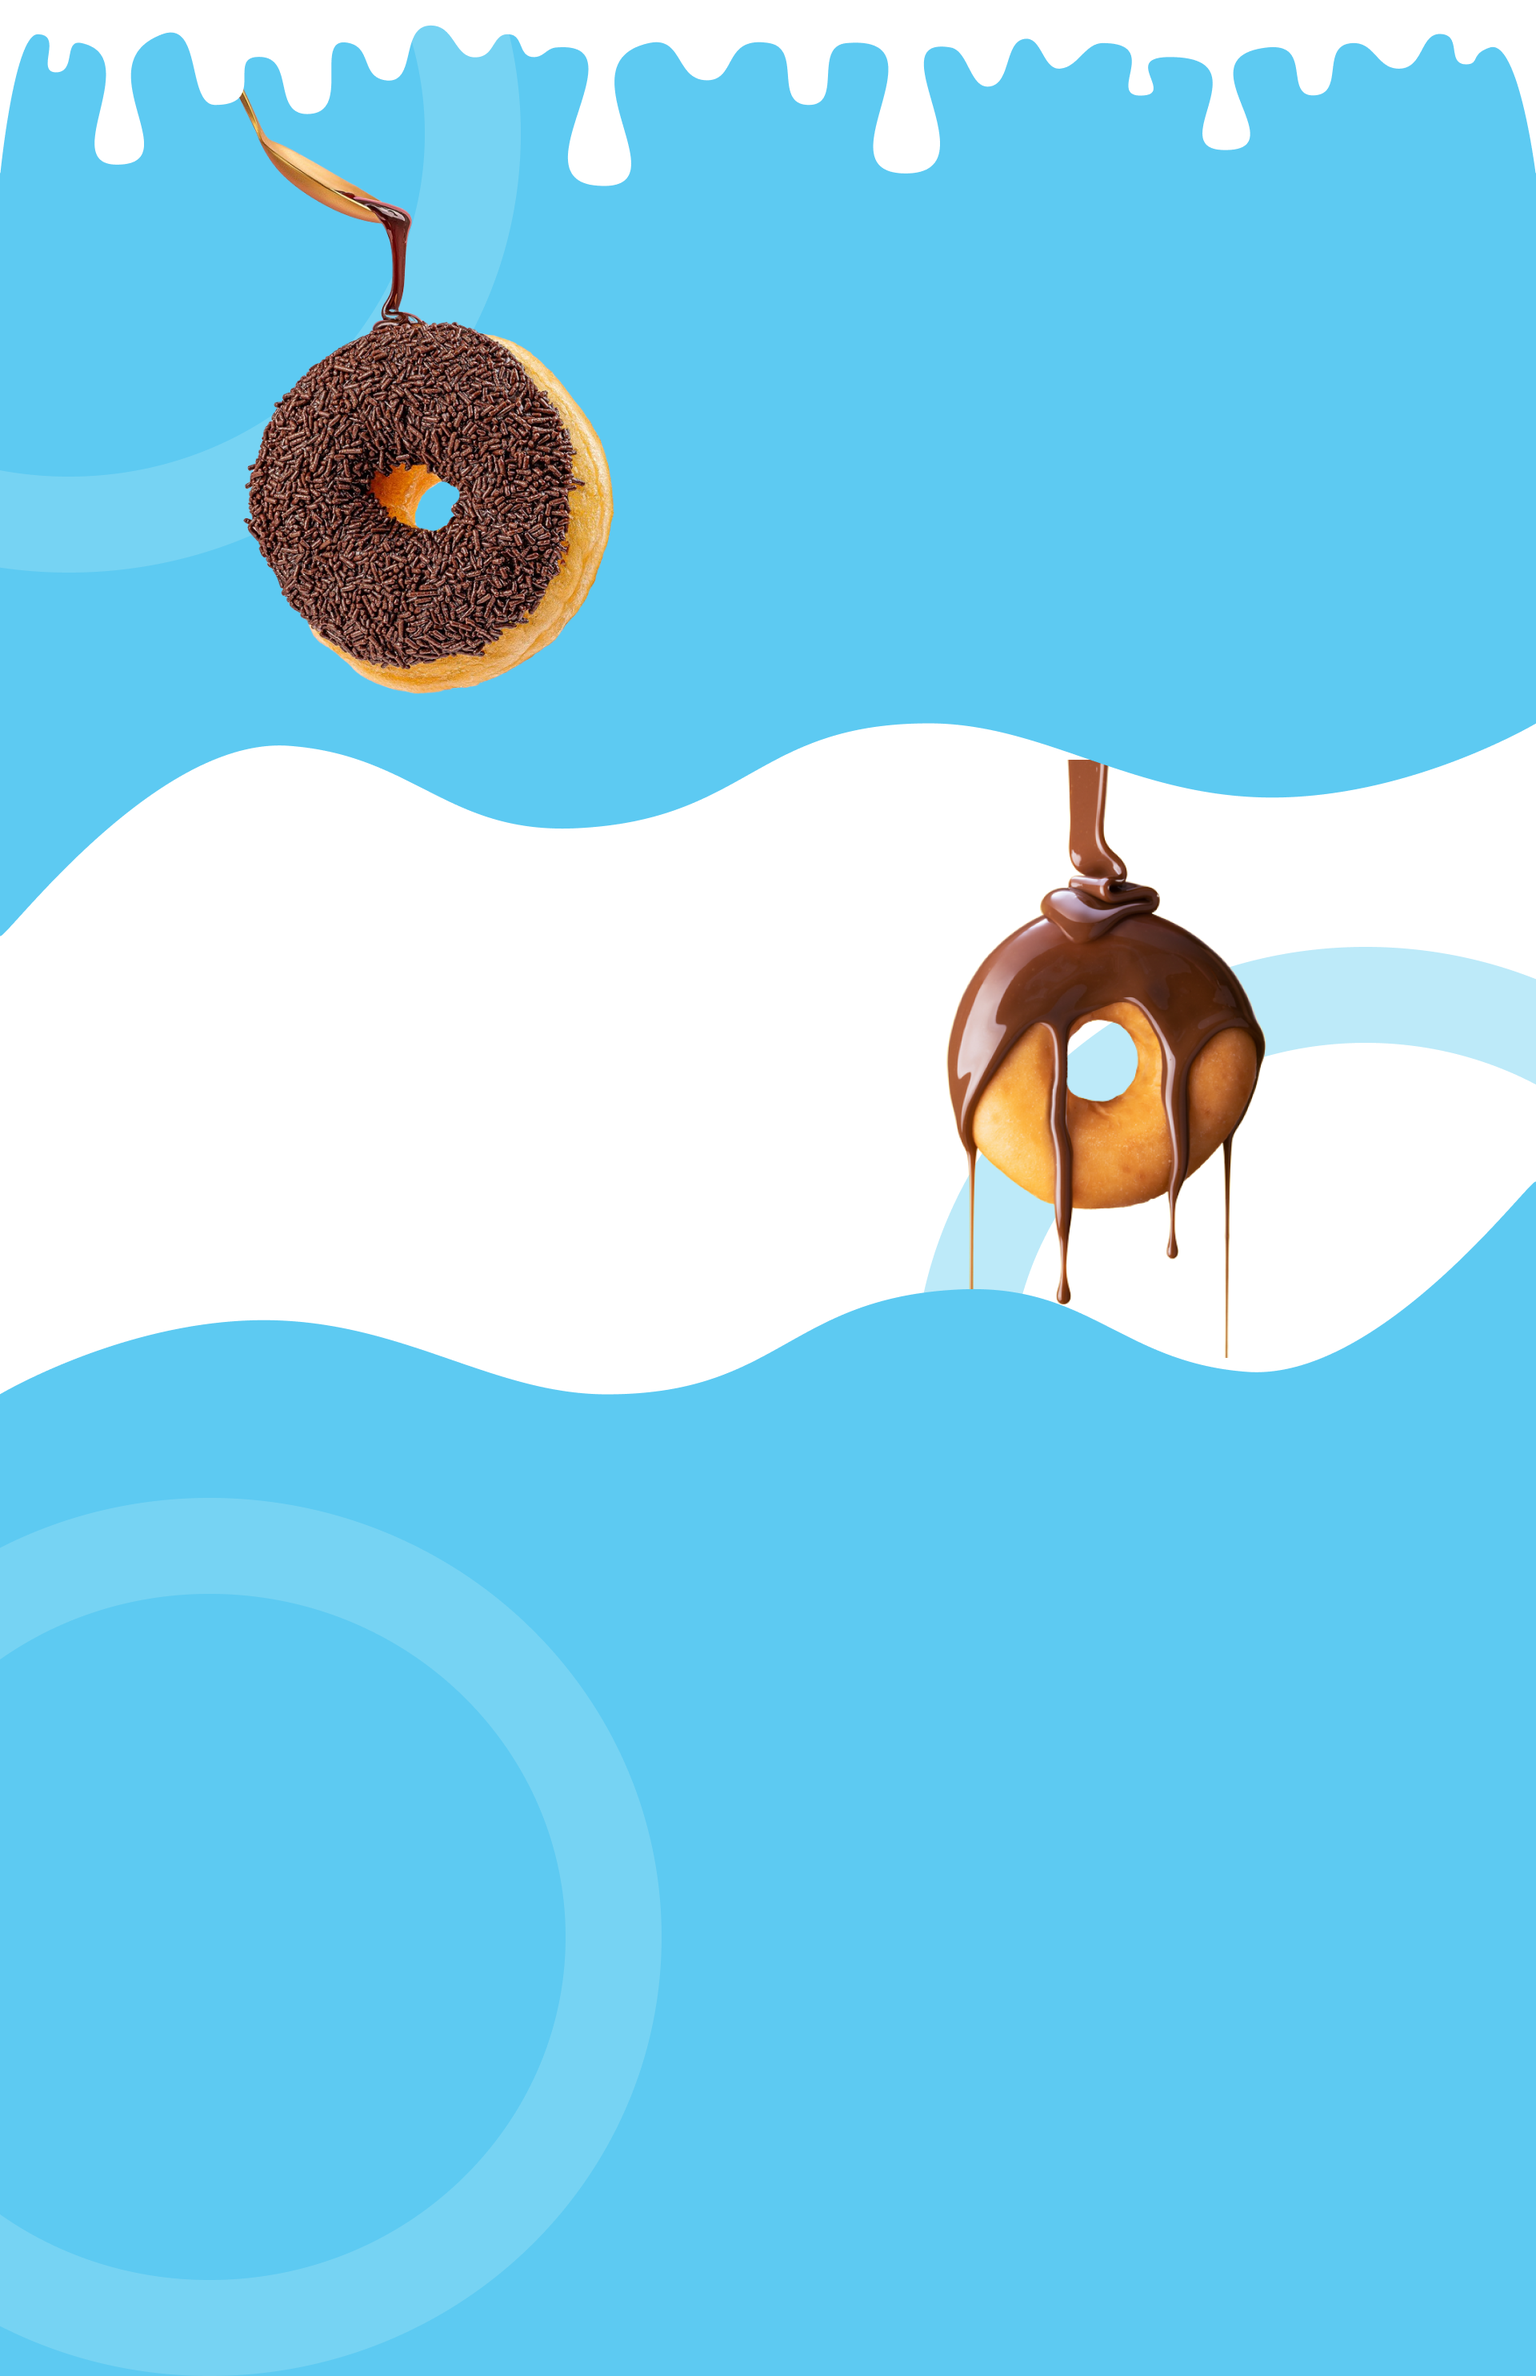
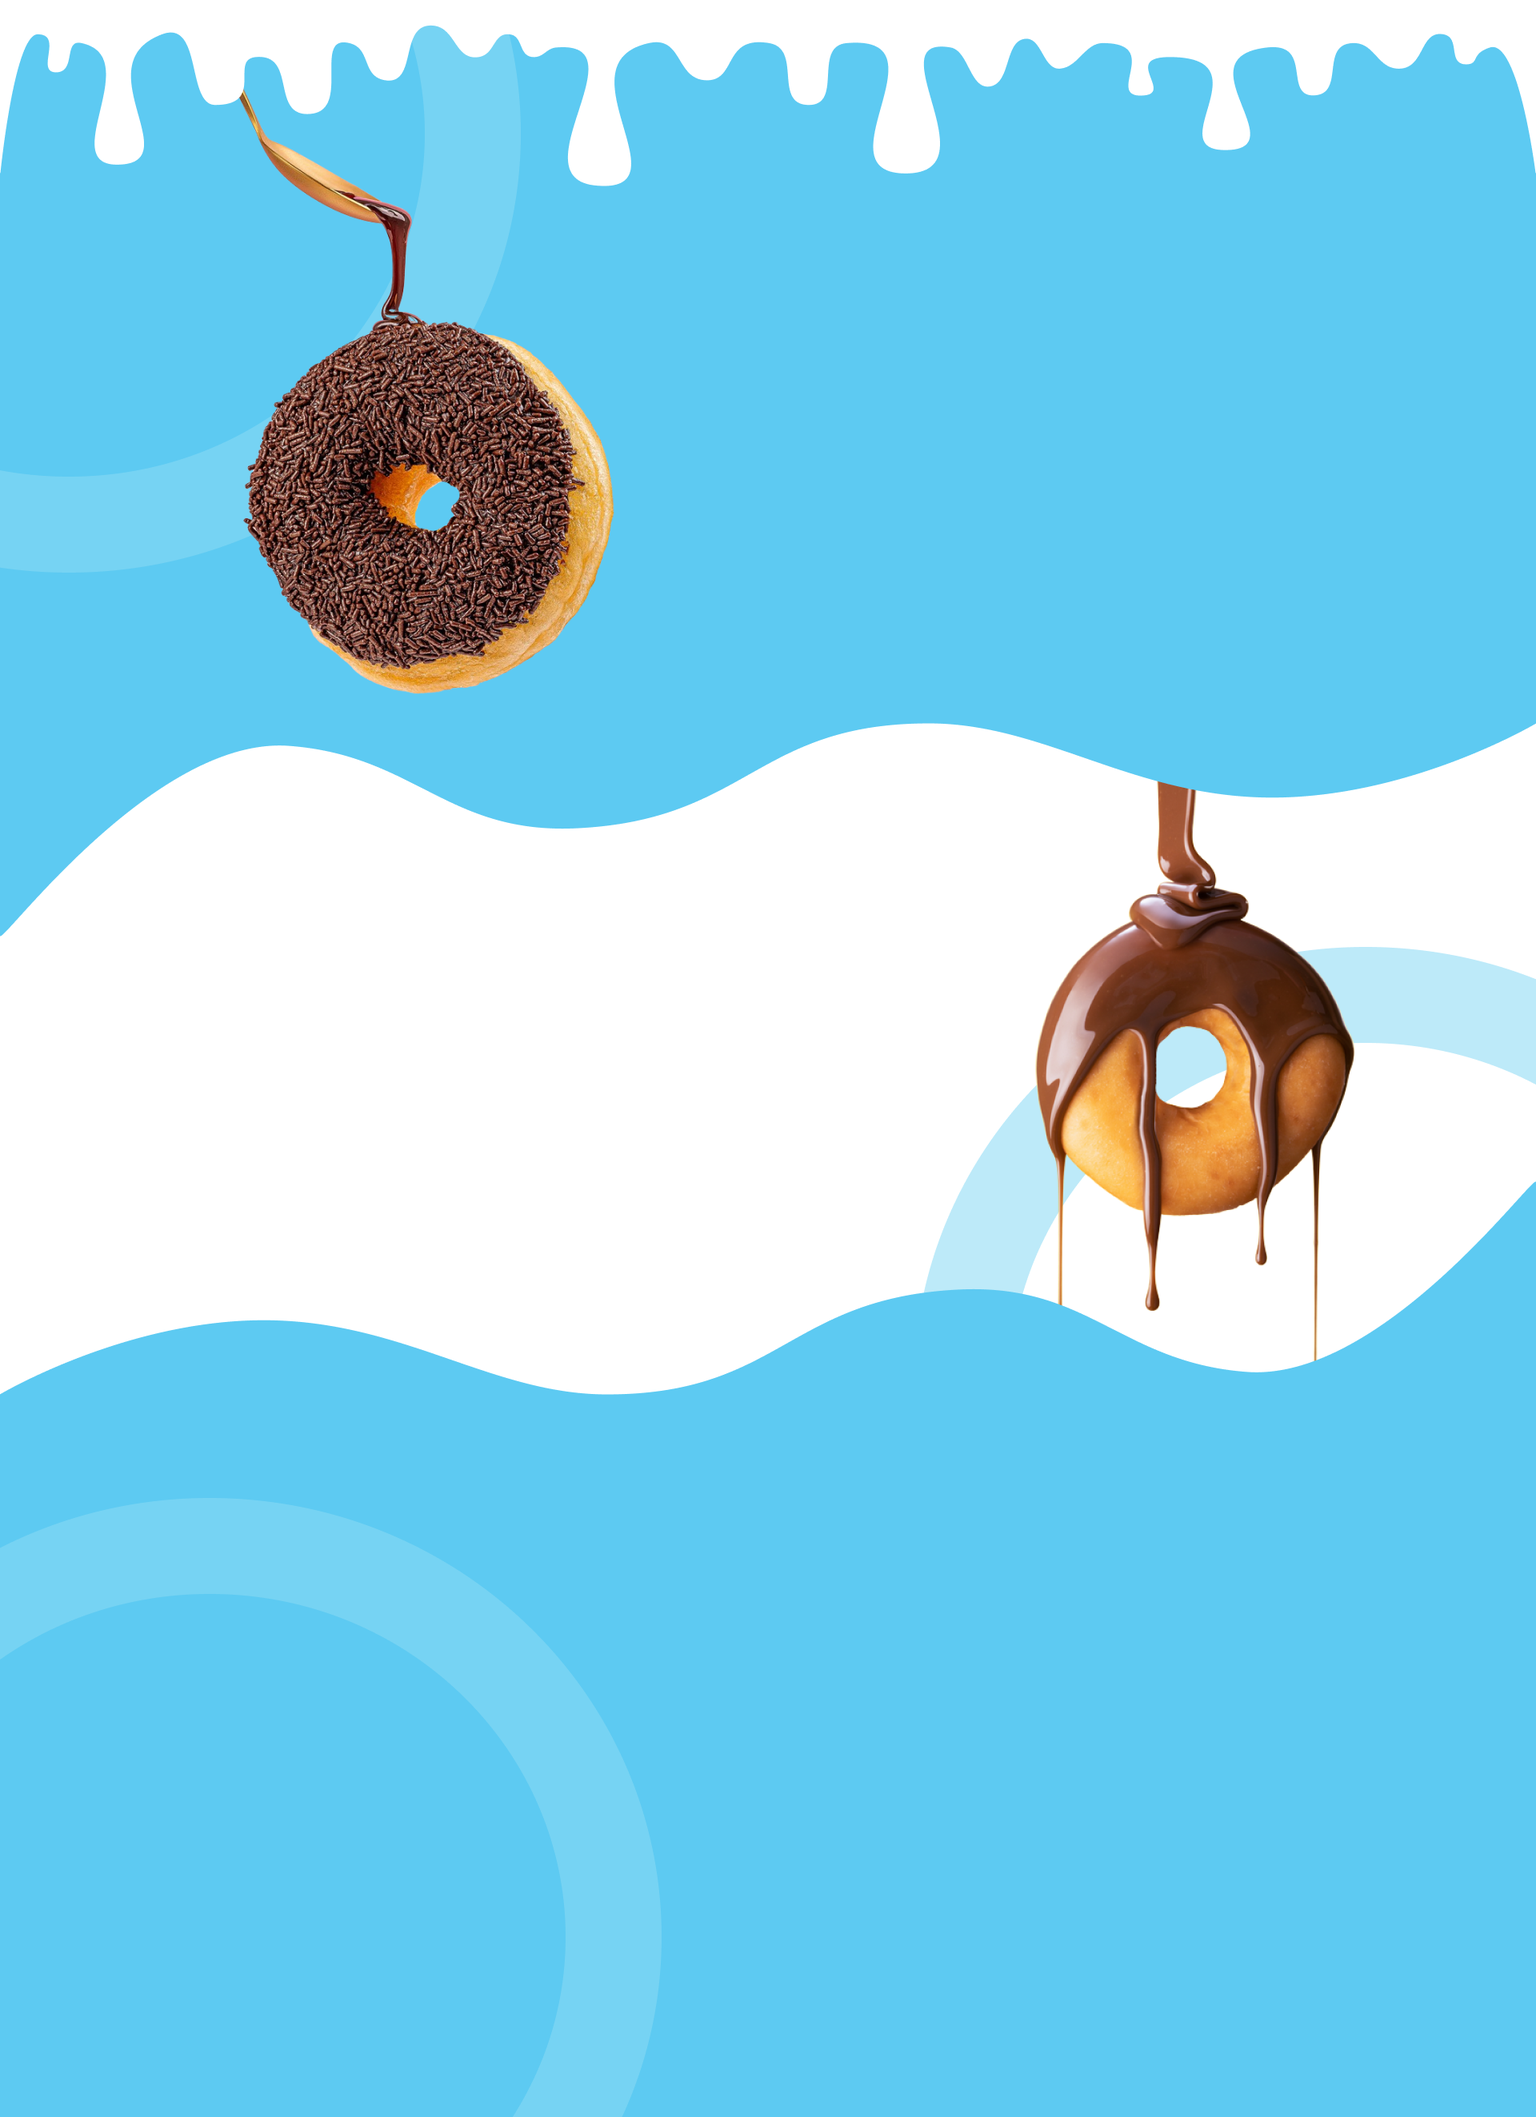
Adjusting responsivity

diff --git a/src/views/Home/styles.module.css b/src/views/Home/styles.module.css
@@ -10,7 +10,7 @@
     background-image: url("/public/assets/1920/fundo-home.png");
     background-repeat: no-repeat;
     background-position: center 80px;
-
+    height: 261vh;
   }
 }
 
@@ -19,6 +19,7 @@
     background-image: url("/public/assets/1600/fundo-home.png");
     background-repeat: no-repeat;
     background-position: center 80px;
+    height: 289vh;
   }
 }
 

diff --git a/src/Components/CarouselHome/styles.module.css b/src/Components/CarouselHome/styles.module.css
@@ -20,9 +20,7 @@
 
 @media only screen and (max-width: 1920px) and (min-width: 1920px) {
     .container {
-        max-height: max-content;
-        margin-top: 30%;
-        margin-bottom: 7%;
+        margin-bottom: -1%;
     }
   }
 
